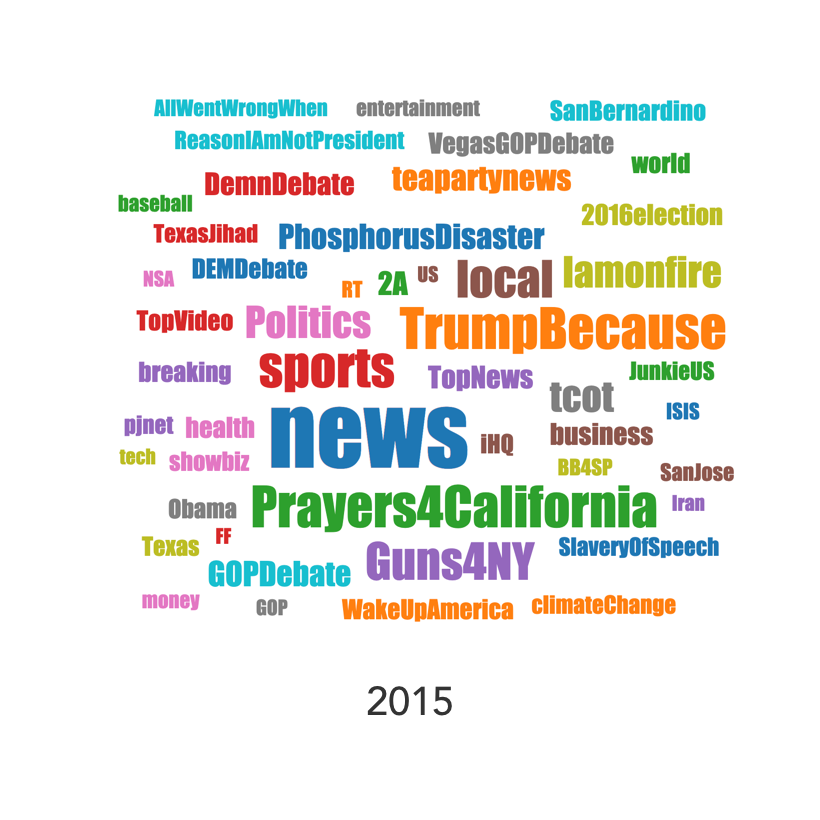
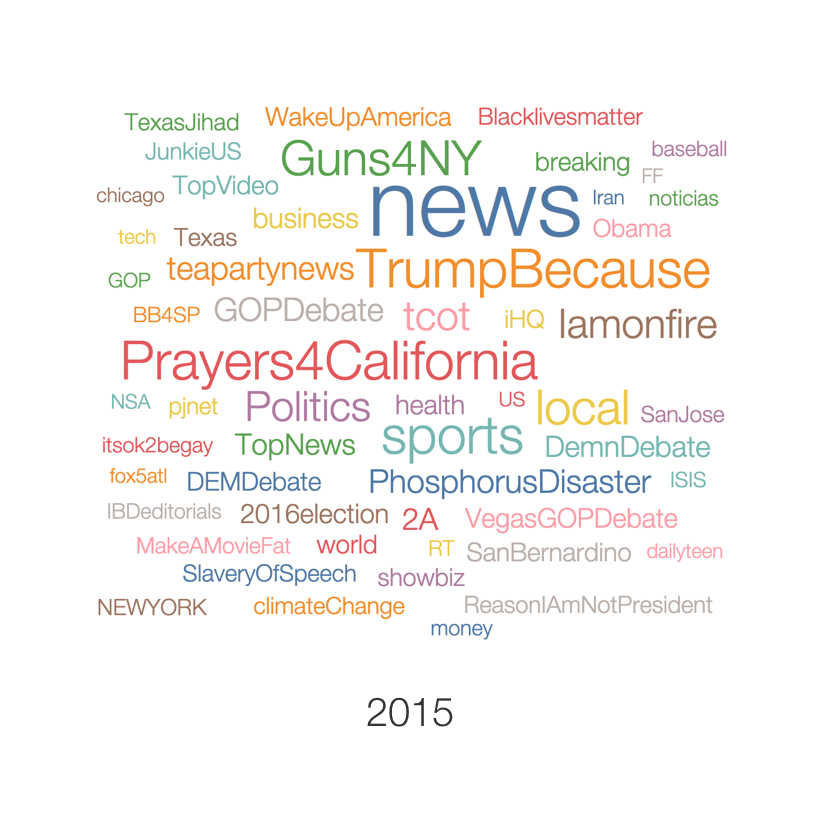
wordclouds updated and equal authorship hover added

Changed region(s): [[0.122, 0.122, 0.9146, 0.7927], [0.4268, 0.8232, 0.5488, 0.8841]]

diff --git a/index.html b/index.html
@@ -65,13 +65,15 @@
     </div>
     
     <div class="static-wrapper">
-      <div class="static row">
+      <div class="static">
         <div class="subtitle col-9" style="padding: 0px">
           Exploring Russian Interference Tactics in the 2016 U.S. Elections
         </div>
-        <div class="authors">
-          <div class="authors"><a href="http://www.abdallah.io" target="_blank">Abdallah Abuhashem</a> + <a href="https://stephanieniu.com/" target="_blank">Stephanie Niu</a> + <a href="https://michellehpark.com/" target="_blank">Michelle Park</a></div>
+        <div class="authors-tooltip">
+          <div class="authors"><a href="http://www.abdallah.io" target="_blank">Abdallah Abuhashem</a> + <a href="http://stephanieniu.com/" target="_blank">Stephanie Niu</a> + <a href="http://michellehpark.com/" target="_blank">Michelle Park</a></div>
+          <div class="tooltip-text">*All authors contributed equally to this article</div>
         </div>
+        <div class="publish-date">Updated May 22, 2020, 6:00PM PST</div>
       </div>
     </div>
 
@@ -134,7 +136,7 @@
     <div class="static-wrapper">
       <div class="static row">
         <div class="col-12" style="padding: 0px">
-          <h3>1. Establishing Authenticity</h3>
+          <h3>Establishing Authenticity</h3>
         </div>
       </div>
     </div>
@@ -202,7 +204,7 @@
     <div class="static-wrapper">
       <div class="static row">
         <div class="col-12" style="padding: 0px">
-          <h3>2. Establishing Authority</h3>
+          <h3>Establishing Authority</h3>
         </div>
       </div>
     </div>

diff --git a/style.css b/style.css
@@ -63,7 +63,7 @@
 }
 
 html {
-	font-family: 'Neuton', serif;
+	font-family: 'helveticaneue', serif;
 	margin: 0;
   width: 100%;
 }
@@ -98,16 +98,50 @@ html {
 }
 
 .subtitle {
-  font-weight: normal;
 	font-size: 24px;
   font-family: 'helveticaneueregular', sans-serif;
   color: black;
 }
 
 .authors {
+  margin-top: 6px;
   font-family: 'helveticaneueregular', sans-serif;
   font-size: 18px;
   padding-top: 1%;
+}
+
+.authors-tooltip {
+  font-family: 'helveticaneueregular', sans-serif;
+  position: relative;
+  display: inline-block;
+}
+
+.tooltip-text {
+  visibility: hidden;
+  font-weight: bold;
+  text-align: center;
+  border-radius: 6px;
+  padding: 8px;
+  border: solid #d4d4d4 1px;
+
+  /* Position the tooltip */
+  position: absolute;
+  left: 0;
+  top: -30px;
+  z-index: 1;
+
+  box-shadow: 0 0 11px rgba(33,33,33,.2);
+}
+
+.authors-tooltip:hover .tooltip-text {
+  background-color: white;
+  visibility: visible;
+}
+
+.publish-date {
+  font-family: 'helveticaneueregular', sans-serif;
+  font-size: 16px;
+  margin-top: 8px;
 }
 
 a {
@@ -190,11 +224,9 @@ body {
 }
 
 .body-text {
-  font-weight: 300;
-	font-family: 'Neuton', serif;
-  font-size: 20px;
+  font-family: 'helveticaneueregular', sans-serif;
+  font-size: 18px;
   line-height: 30px;
-  font-weight: light;
   letter-spacing: 0.15px;
 }
 
@@ -232,7 +264,7 @@ strong, b {
 	text-align: center;
   font-style: italic;
   font-weight: 300;
-	font-family: 'Neuton', serif;
+  font-family: 'helveticaneueregular', sans-serif;
   font-size: 18px;
   line-height: 23px;
 }

diff --git a/hashtag_timeline.js b/hashtag_timeline.js
@@ -158,7 +158,7 @@ function wordCloud(selector) {
     //Entering words
     cloud.enter()
       .append("text")
-      .style("font-family", "Neuton")
+      .style("font-family", "helveticaneueregular")
       .style("fill", function(d, i) { return fill(i); })
       .attr("text-anchor", "middle")
       .attr("font-size", function(d) { return fontScale(d.size) + "px"; })
@@ -207,7 +207,7 @@ function wordCloud(selector) {
 
       d3.layout.cloud().size([WORDCLOUD_WIDTH, WORDCLOUD_HEIGHT])
           .words(words)
-          .font("Neuton")
+          .font("helveticaneueregular")
           .text(function(d) { return d.text; })
           .padding(4)
           .rotate(function() {return 0; })

diff --git a/scrollama_mod.css b/scrollama_mod.css
@@ -42,9 +42,9 @@ article {
 .step p {
   margin: 0;
   padding: 0;
-  font-weight: 300;
-	font-family: 'Neuton', serif;
-  font-size: 20px;
+  #font-weight: 300;
+  font-family: 'helveticaneueregular', sans-serif;
+  font-size: 16px;
   line-height: 30px;
   font-weight: light;
   letter-spacing: 0.15px;
